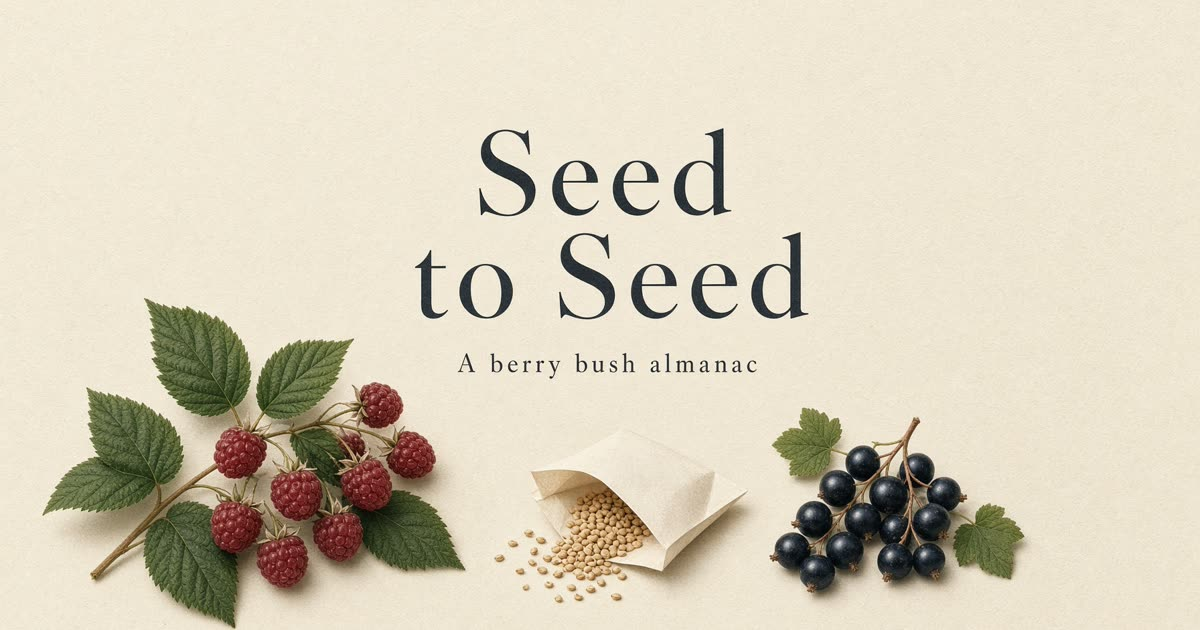
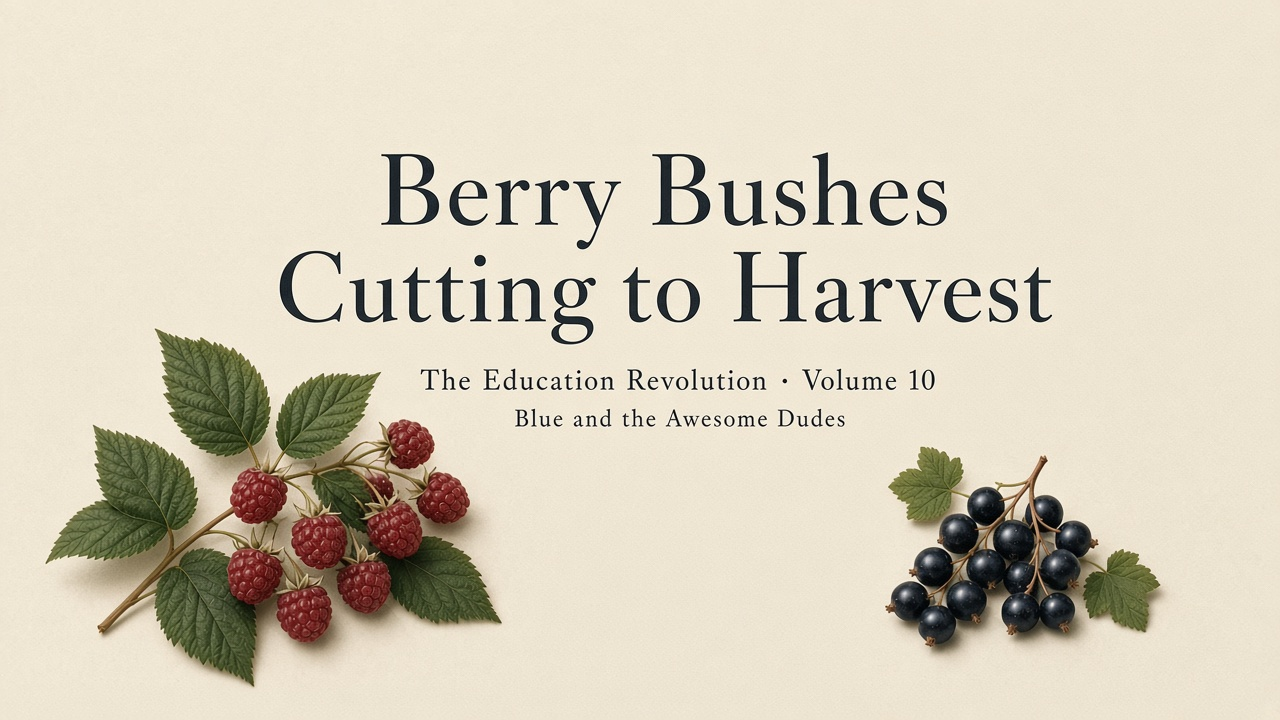
Series branding: The Education Revolution, Volume 10

Changed region(s): [[0.0308, 0.2111, 0.925, 1.0], [0.37, 0.573, 0.6783, 0.6032]]

diff --git a/src/routes/__root.tsx b/src/routes/__root.tsx
@@ -3,7 +3,7 @@ import { AuthProvider } from "@/lib/auth/provider";
 import { PreviewHostBridge } from "@/components/preview-host-bridge";
 import appCss from "../styles.css?url";
 
-const APP_NAME = "The Education Revolution";
+const APP_NAME = "Volume 10: Berry Bushes (The Education Revolution)";
 
 export const Route = createRootRoute({
   head: () => ({
